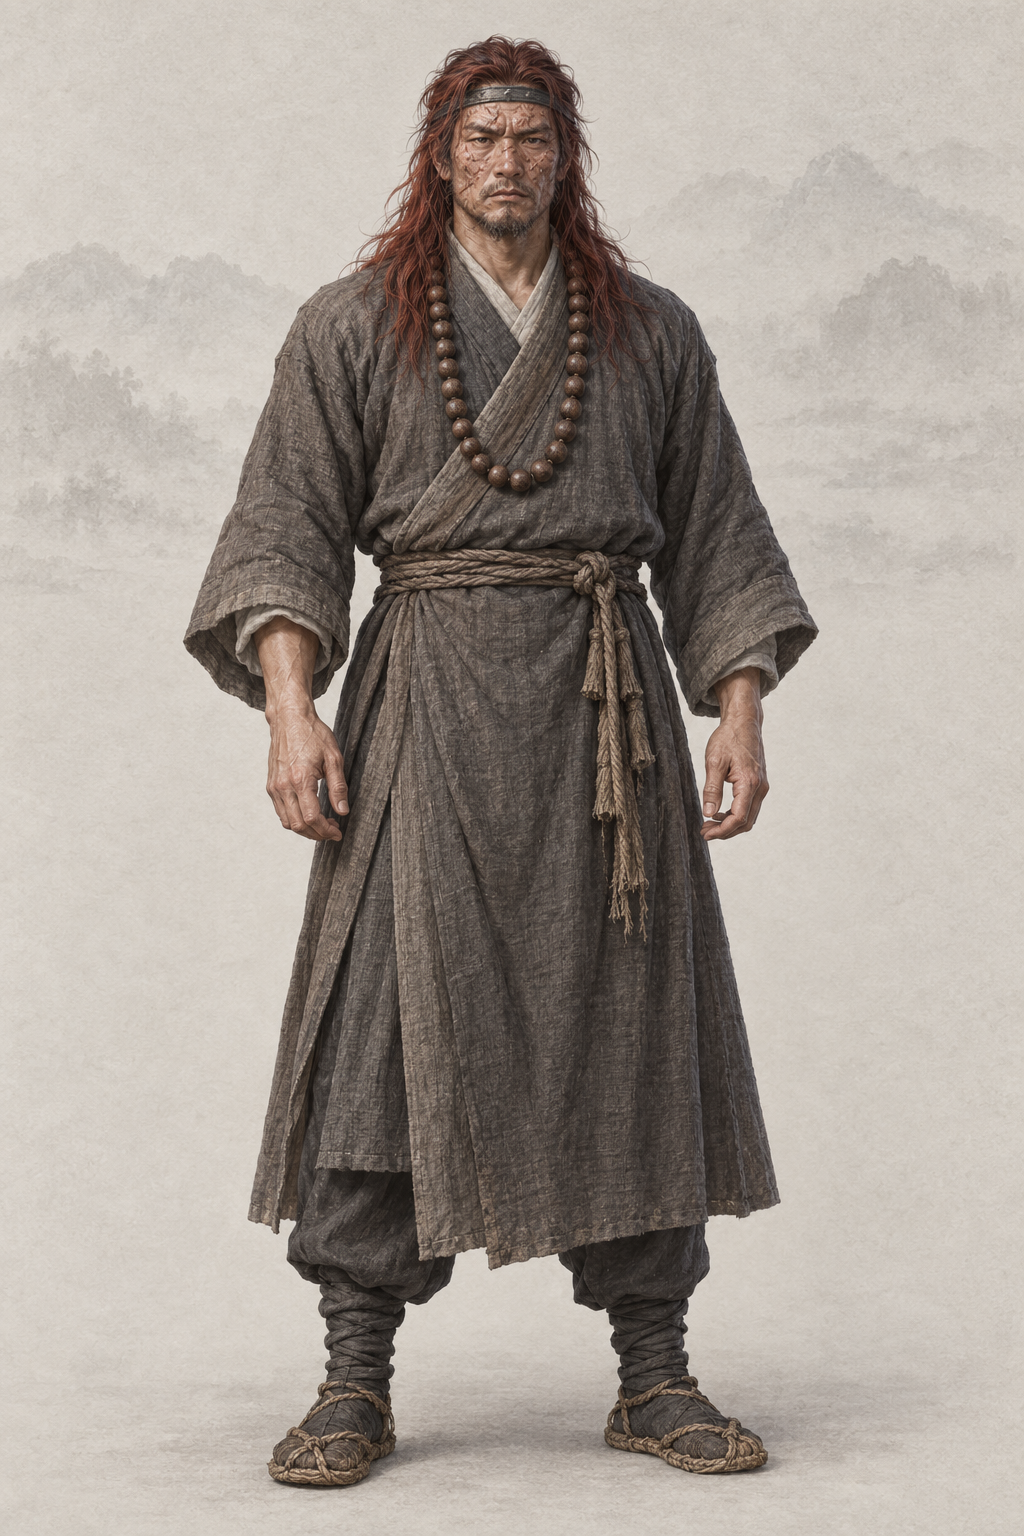
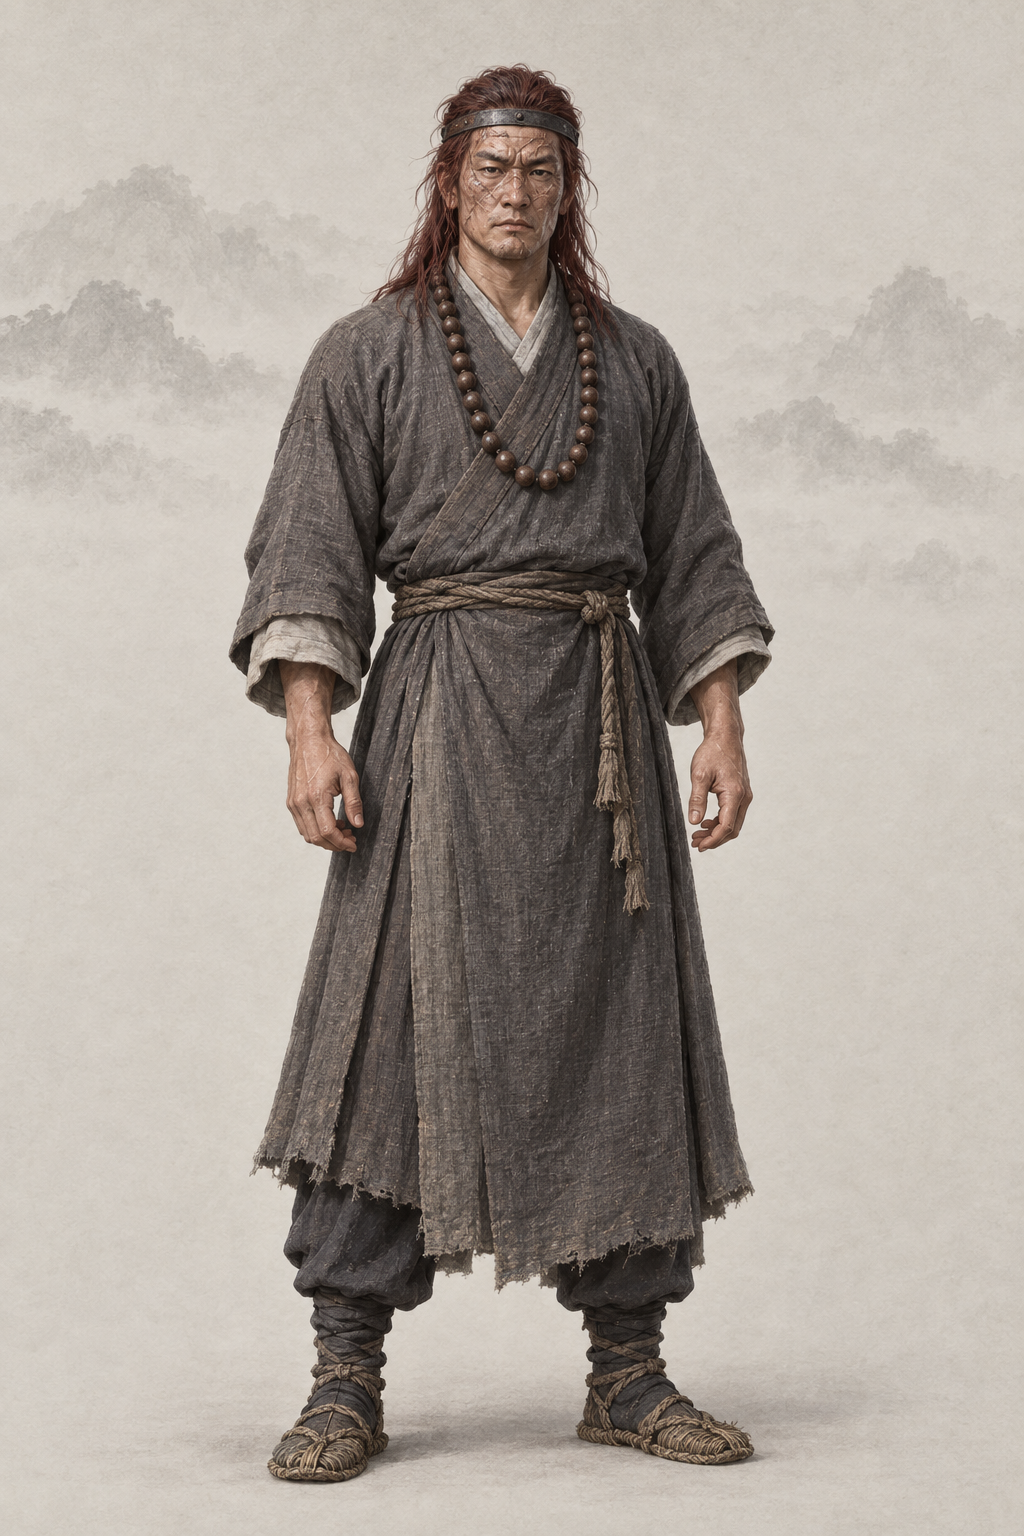
assets(character): por_npc_fanyao__ch04_prime_kutoutuo_base 范遥（codex，AR-32 经典版）
2003 版范遥全程戴面具，无可用剧照，按原著文字加基线重出。

diff --git a/assets/default/prompts/characters/ch04-yitian/npc_fanyao.md b/assets/default/prompts/characters/ch04-yitian/npc_fanyao.md
@@ -17,14 +17,39 @@ references:
   use: 第三参考仅用户要求的背景：暖浅灰纸底、极淡水墨远山和薄雾、充足留白。已实际view并复核SHA，不取王语嫣脸、年轻年龄、发型、服装、动作或头部倾斜；墨痕与纸纹只能在背景，不进入人物与兵器。
 status: redo
 realism_revision: user_identity_pose_20261001
-redo_reason: "现图是一张光洁英俊的脸，与原著苦头陀“满面横七竖八的刀疤、相貌全不可辨、长发披肩、头发红棕、身材魁伟”完全不符"
+redo_reason: "AR-32：经典版重出时无可用剧照（剧中戴面具），按原著文字加基线重出（10-02，7 号出图员）"
 reference_upload:
 - assets/default/baseline/character/male/ref_npc_linghuchong__ch05_base01.png
+- assets/default/baseline/character/male/ref_npc_xiaofeng__ch01_base01.png
+classic_ref:
+  version: 2003 年苏有朋、贾静雯版《倚天屠龙记》（作者 AR-32 指定）
+  stills: []
+  note: 2003 版范遥毁容后全程戴面具，看不到脸，没有可用剧照；按原著文字出
+codex_prompt_rev: 2026-10-02
 ---
 
 # 范遥 · 人物写实修正
 
 ## Gemini 提示词
+
+> 2026-10-02 AR-32（7 号出图员，codex exec · image_gen 出图）：2003 苏有朋版范遥毁容后全程戴面具，没有可用剧照，按原著文字出；上传两张同性别缩小版基线（放在最后）取画风。上一版保留在后文作历史。
+
+```text
+生成一张 2:3 竖幅全身人物立绘：单人、单一视角、完整全身——头顶、双手、双脚和手中器物的两端都在画面内，四周留出自然空白；人物站姿自然，身体基本朝向正面，头部端正（不歪头、不仰不俯），镜头平视。
+【画风】写实手绘古风人物插画，与本项目写实武侠角色立绘同一画风，像功力深厚的画师用细腻笔触画出的真实人物。手绘插画质感，不是 CG 渲染：不要过度光滑的皮肤、完美对称的五官、塑料高光、过度锐利的发丝；保留自然的笔触和细微不完美。皮肤有真实质感——细小毛孔、细纹、晒痕和自然的左右不对称，不磨皮、不油亮；头发是一缕缕自然的发丝和少量碎发；布料看得出经纬纹理、厚薄和自然垂坠的褶皱，带穿用过的轻微旧化，但完整不破烂；整体设色低饱和、沉稳；柔和的自然光从左上方照来，明暗过渡自然，不打舞台光、轮廓光或美颜柔光。不是照片，不是三维渲染，不是动漫或游戏 CG，也不是油画（没有厚涂笔触和画布纹理）。
+【背景】不透明的暖浅灰色纸底，只在远处有极淡的水墨远山和薄雾，大面积留白；人物与背景明暗分明、轮廓边缘干净完整（后续要自动抠图），水墨和纸纹只在背景里，不侵入人物和衣服；脚下只有很淡的一点接触阴影。
+【人物】范遥，《倚天屠龙记》明教光明右使，为查明教主失踪真相自毁容貌、装成哑巴头陀“苦头陀”潜伏在汝阳王府近二十年；万安寺营救前后的阶段。
+【年龄与体态】四十多岁的中年男子，原著写他身材魁伟。
+【面容】原著写他满面横七竖八都是刀疤，本来相貌已全不可辨，不似中土人氏。具体为：整张脸布满纵横交错、清清楚楚的旧刀疤——十几道长短不一的浅色凸起疤痕，从额头、眉骨、鼻梁一直划到两颊和下巴，早已愈合，不血腥；看不出原本的五官美丑；浓眉下一双深沉锐利的眼睛；嘴唇紧闭（装哑）。
+【发式】原著写他长发披肩、头发作红棕之色：一头红棕色长发披到肩下，额上箍一道铁发箍（头陀装束）。
+【服饰】头陀装束：深灰褐色宽大僧衣（不剃发的苦行头陀），腰系粗绳，颈挂一串大木念珠，草鞋。
+【道具】空手。
+【姿态与神情】沉默地站着，双手垂下，目光深沉，像把一切都压在心底。
+【不要】画面里不要任何文字、题款、印章、签名、水印、边框、分格或多视图；不要第二个人；不要幼态（童颜、娃娃脸、婴儿肥、儿童或少年身材、大头小身）；不要塑料感皮肤、磨皮美颜、网红脸（尖下巴大眼高鼻的模板脸）、过度对称、浓妆、偶像式打光、蜡像感；不要照片质感、照片修图感、三维渲染或动漫大眼；不要直接复制剧照的画面；不要歪头、斜镜头；不要多指、缺指（设定的伤残除外）、手与器物粘连或悬空；汉式交领必须右衽（穿着者的左襟压在右襟上），不要左衽（设定为少数民族服制的除外），不要水平镜像；不要现代物品、发光特效、法阵或能量光。不要光洁英俊的脸、不要只有一两道疤；不要黑发或剃光头；不要血淋淋的伤口；不要面具；不要书生装束。
+【画风基线】随提示词上传的参考图里，最后两张是本项目的立绘画风基线：只参考它们的画风、用色、光线、质感和暖浅灰纸底加淡水墨的背景处理，整体画风必须与它们一致——精细写实的数字手绘插画，不是油画，不要厚涂笔触和画布纹理。基线图只取画风、光线、质感和背景处理，不取长相：不要照搬基线图里人物的长相、年龄、发型、服饰和姿势。
+```
+
+## 上一版 Gemini 提示词（AR-32 改写前，历史，不再用于出图）
 
 > 2026-10-02 重要人物立绘重审（A 组，`tools/agents/reports/REVIEW-portraits-A-ch00-04.md`）：**整体重出**。现图是一张光洁英俊的脸，与原著苦头陀“满面横七竖八的刀疤、相貌全不可辨、长发披肩、头发红棕、身材魁伟”完全不符。
 > 本条不上传任何参考图（`reference_upload: []`）；frontmatter 的 `references` 与本节以下内容是旧出图管线的历史记录，不再用于出图。
